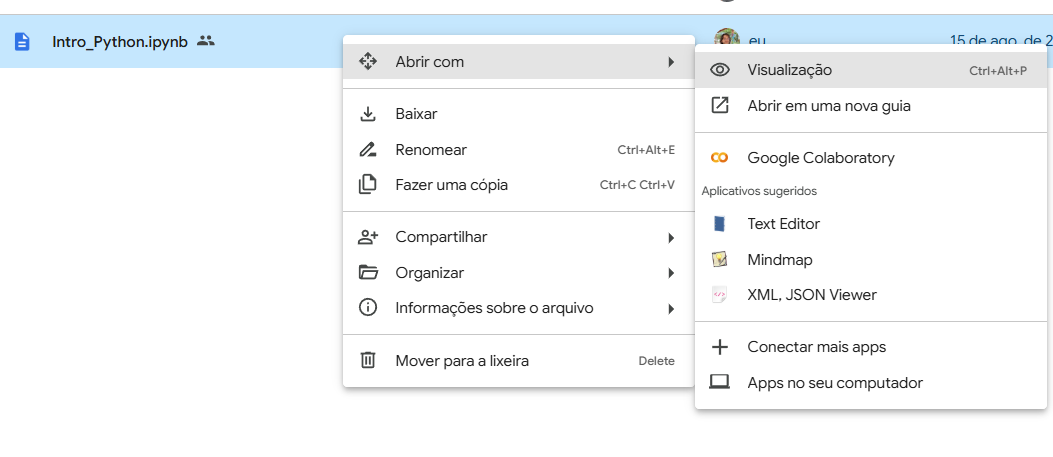
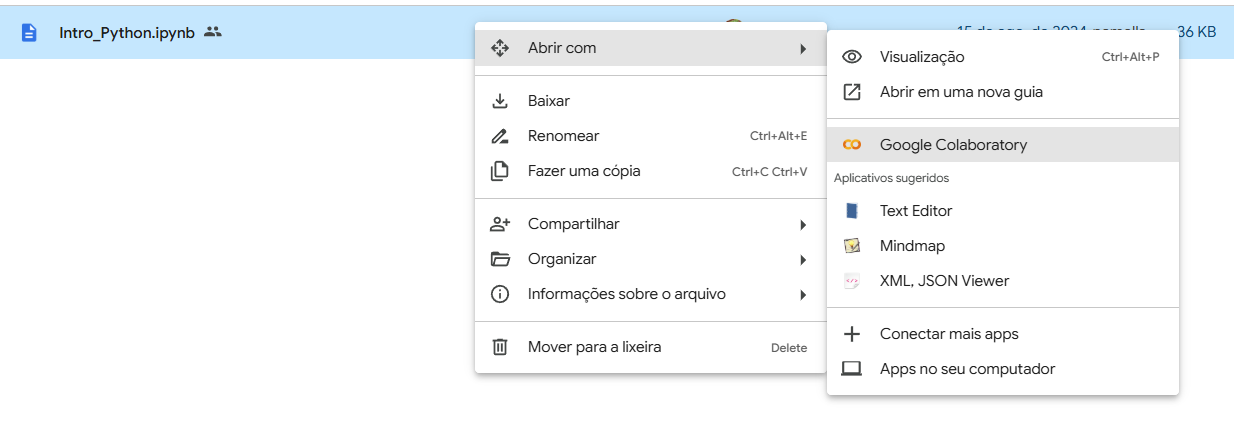
tuto colab

diff --git a/book/aulas/aula1/colabtutorial.md b/book/aulas/aula1/colabtutorial.md
@@ -82,8 +82,8 @@ Para quem prefere trabalhar com a nuvem, a opção é o Google Colab. E este ser
 
 ### Usando diretamente no Google Drive
 
-1. Abra o Google Drive e clique com o botão direito do mouse em algum arquivo no formato .ipynb
-2. Clique em abrir com > Google Colaboratory
+1. Abra o Google Drive no seu *browser* e clique com o botão direito do mouse em algum arquivo no formato `.ipynb`
+2. Clique em "Abrir com" > "Google Colaboratory"
 
 ```{figure} ../aula1/images/colab1.png
 ---
@@ -93,6 +93,32 @@ align: center
 ---
 
 ```
+
+2.a. Talvez a sua conta do Drive ainda não tenha o Colab instalado. Se esse for o seu caso, clique em "Abrir com" > "Conectar mais apps".
+
+```{figure} ../aula1/images/colab2.png
+---
+width: 100%
+name: colab2
+align: center
+---
+
+```
+
+2.b. Procure por "Colab" ou "Google Colaboratory" na barra de pesquisa.
+
+```{figure} ../aula1/images/colab3.png
+---
+width: 100%
+name: colab3
+align: center
+---
+
+```
+
+2.c. Instale o Colab e tente o passo 2 novamente.
+
+
 
 ---
 
